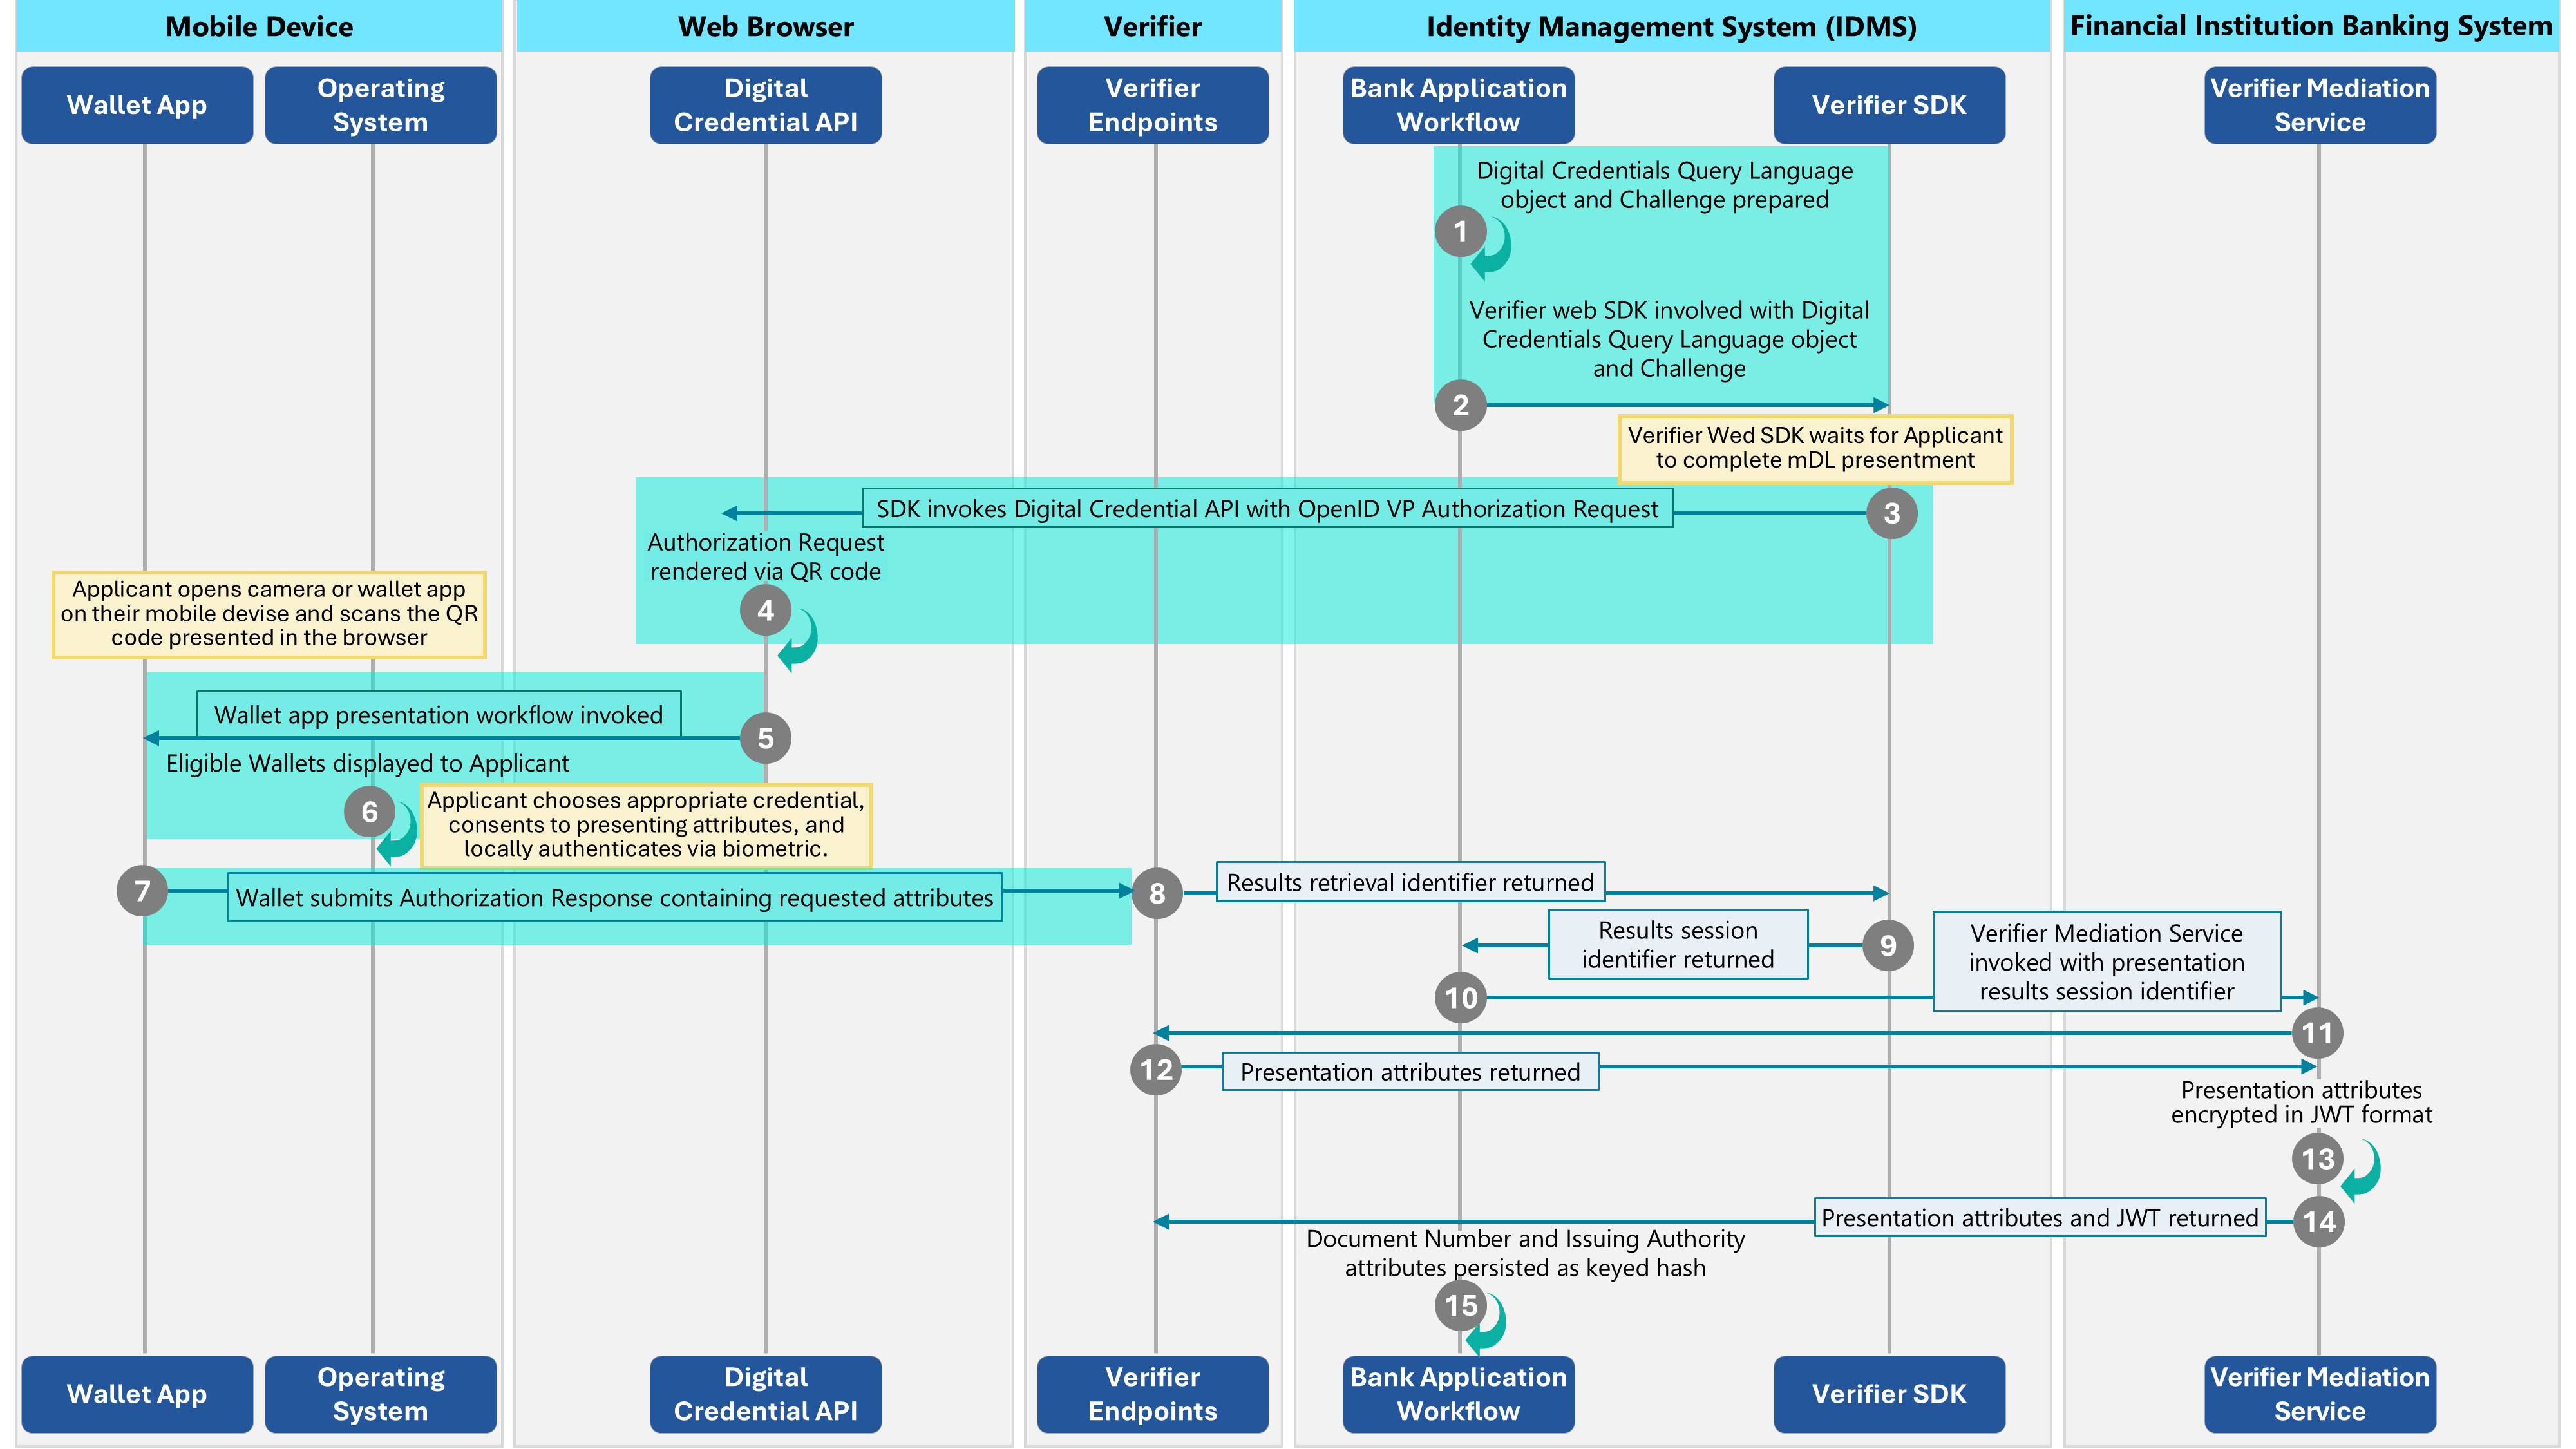
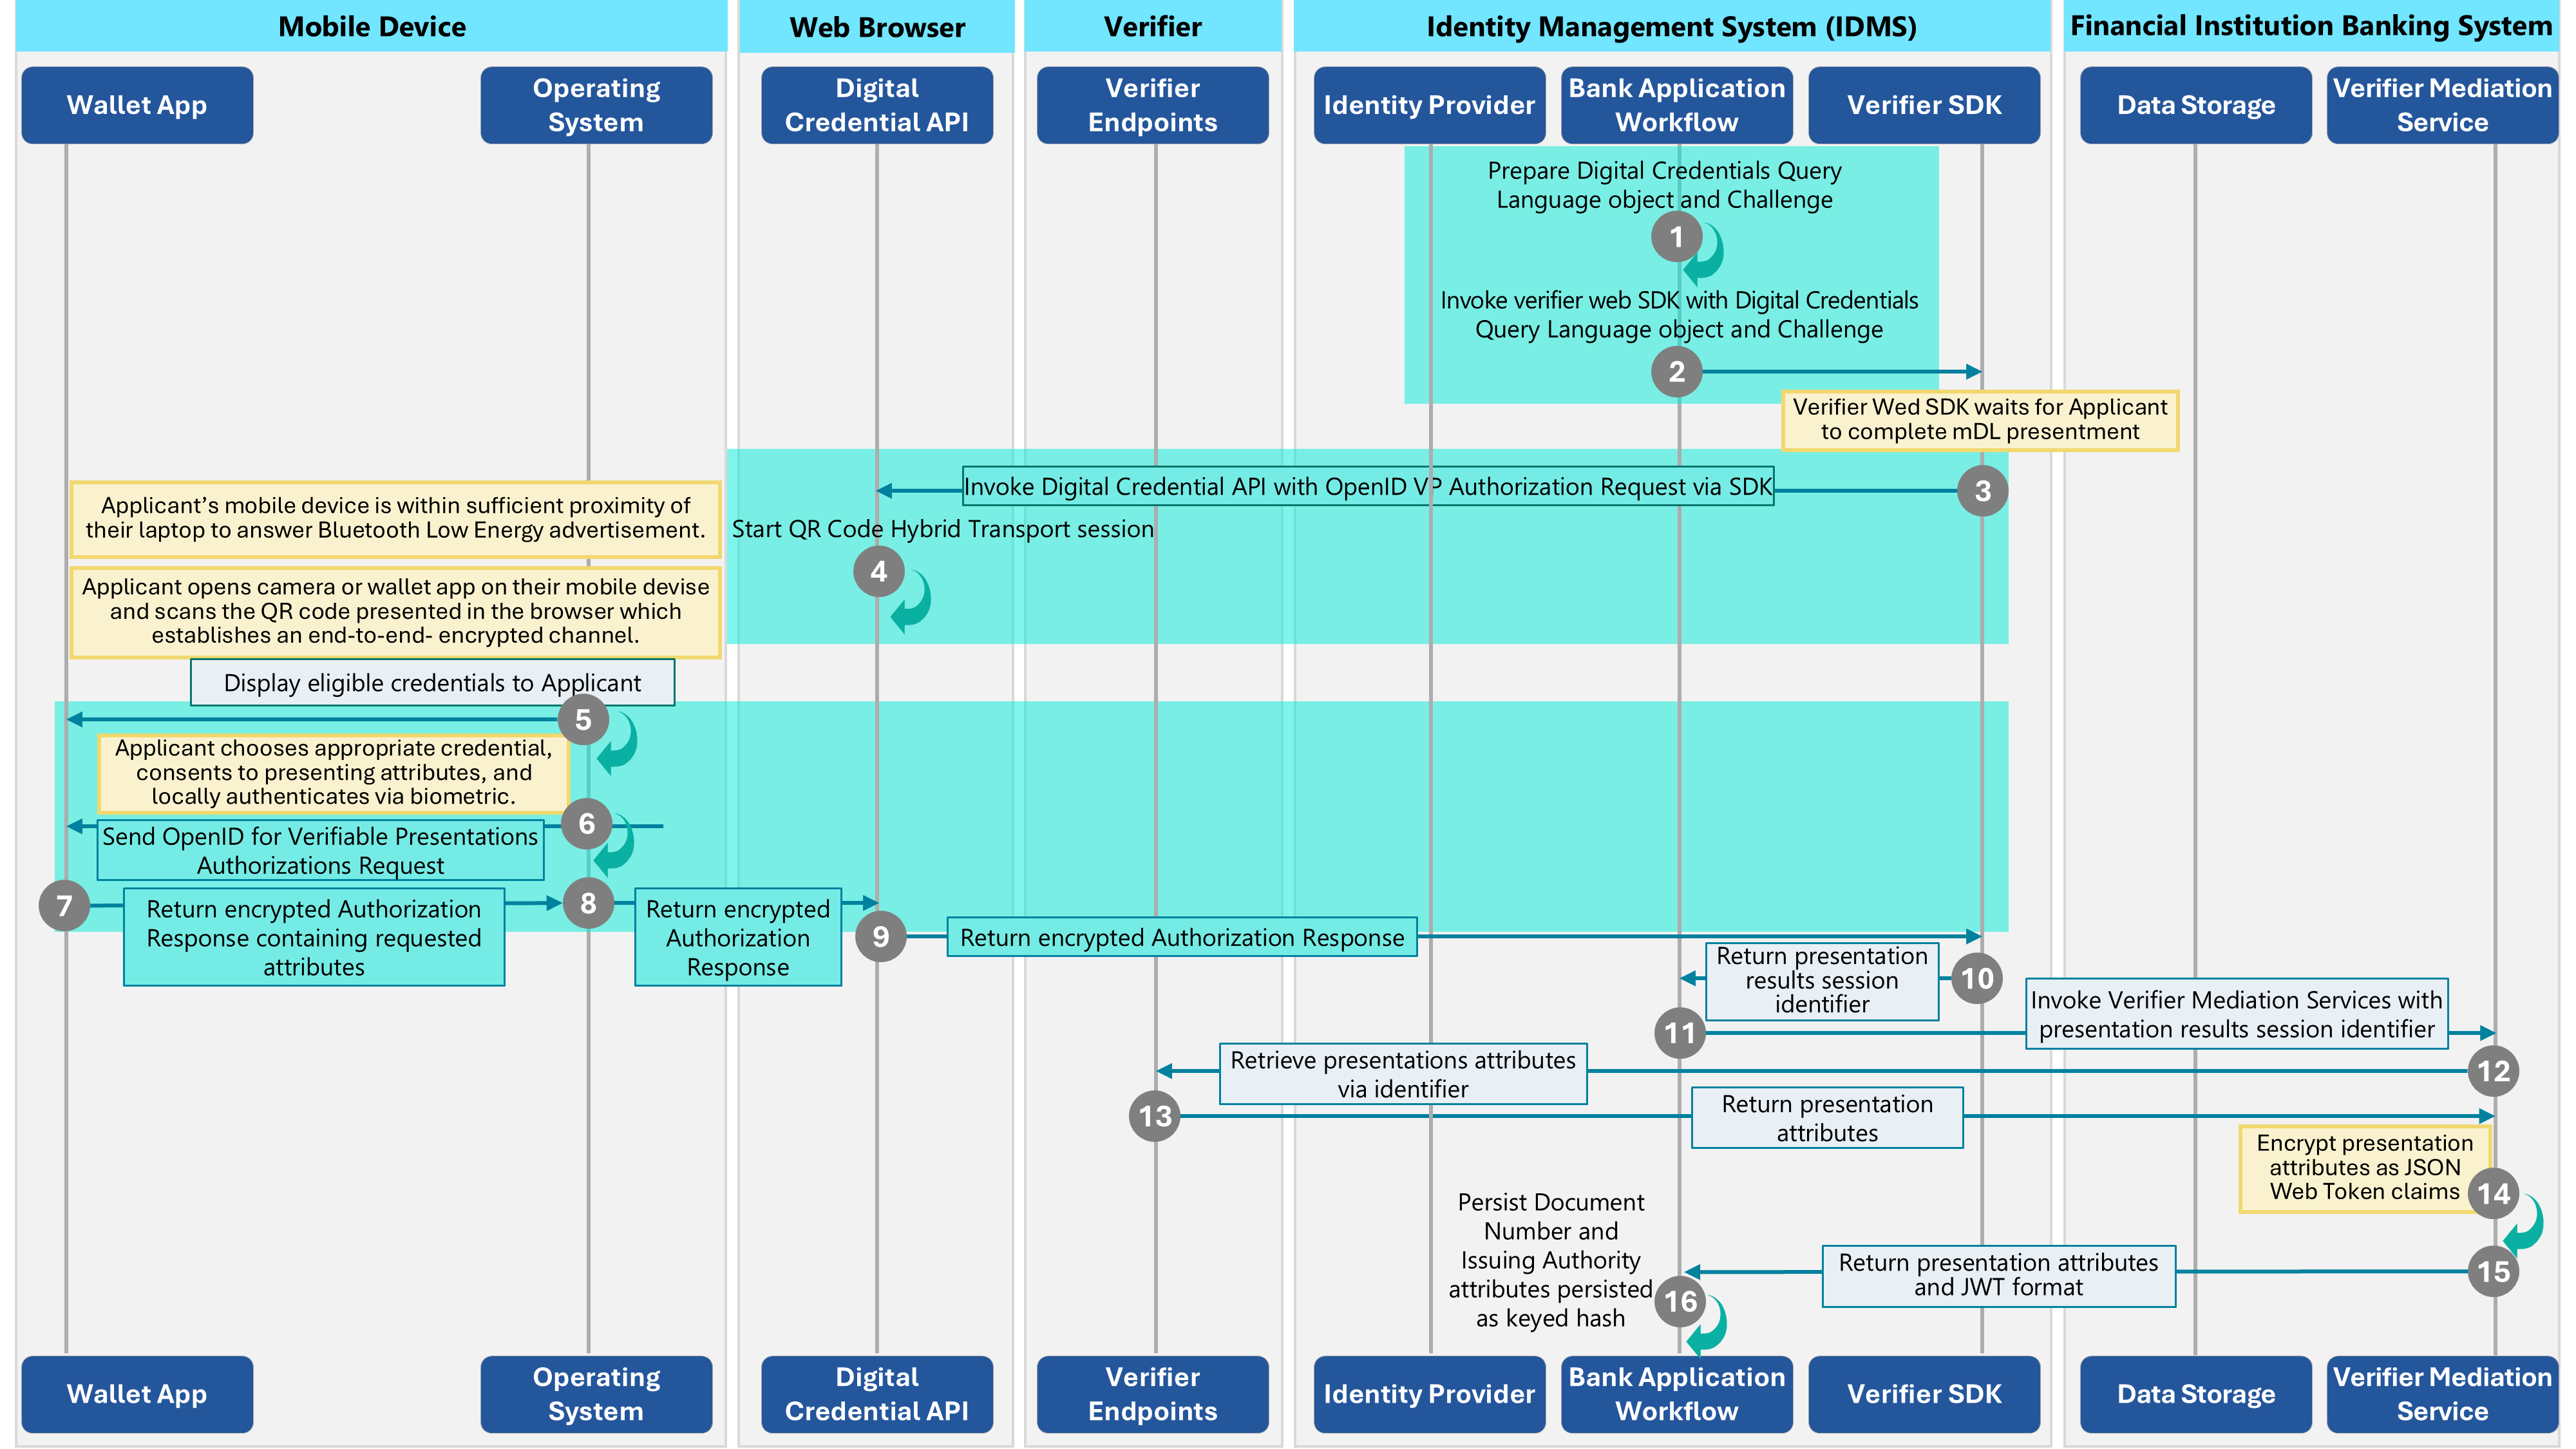
update sequence diagrams, title, howto guide and architecture

Changed region(s): [[0.0, 0.0, 1.0, 0.9956]]

diff --git a/source/_static/custom.css b/source/_static/custom.css
@@ -3,6 +3,11 @@
   /* --sd-color-card-background: #a4d9d6; */
 }
 
+.line-block {
+    margin-bottom: 0em !important;
+    
+}
+
 .sd-card.welcome {
     /* --card-bg: rgba(255, 255, 255, 0.1); */
   
@@ -14,6 +19,7 @@
     border-radius: 12px !important;
     box-shadow: 0 4px 30px rgba(0, 0, 0, 0.1);
     transition: transform 0.2s ease-in-out;
+
 }
 
 /* Ensure the header and footer are also transparent */
@@ -39,6 +45,7 @@
 
 .howtostep {
     --card-bg: rgba(164, 217, 214);
+
 }
 
 /* Hover effect for interactivity */

diff --git a/source/conf.py b/source/conf.py
@@ -12,8 +12,8 @@ sys.path.append(os.path.abspath("_themes"))
 
 # -- Project information -----------------------------------------------------
 
-project = "NCCoE Mobile Driver's License Project Supporting Resources"
-html_title = "NCCoE Mobile Driver's License Project Supporting Resources"
+project = "NCCoE Mobile Driver's License Project Resource Hub"
+html_title = "NCCoE Mobile Driver's License Project Resource Hub"
 author = 'NIST NCCoE'
 email = u'[email redacted]'
 googleanalytics_id = 'G-RJSMY46M5C'
@@ -25,6 +25,10 @@ googleanalytics_id = 'G-RJSMY46M5C'
 
 
 exclude_patterns = ['build', 'Thumbs.db', '.DS_Store', '.git']
+
+  
+
+#include_patterns = ['source/use-case-1/vol-c.rst']
 
 extensions = [
     'sphinxcontrib.rsvgconverter',
@@ -39,7 +43,8 @@ extensions = [
     "sphinx_datatables",
     "sphinxcontrib.googleanalytics",
     'sphinx_reredirects',
-    'sphinxcontrib.images'
+    'sphinxcontrib.images',
+    'sphinx_simplepdf',
 ]
 
 

diff --git a/source/use-case-1/vol-c.rst b/source/use-case-1/vol-c.rst
@@ -8,16 +8,15 @@
 
 
 
-The NCCoE mDL Configuration Guide
-=================================
+Use Case 1 Configuration Guide
+==============================
 
 .. admonition:: DISCLAIMER
 
   Certain commercial entities, equipment, products, or materials may be identified by name or company logo or other insignia in order to acknowledge their participation in this collaboration or to describe an experimental procedure or concept adequately. Such identification is not intended to imply special status or relationship with NIST or recommendation or endorsement by NIST or NCCoE; neither is it intended to imply that the entities, equipment, products, or materials are necessarily the best available for the purpose.
 
-This page describes how we implemented this representative demonstration. Security architects, product managers, and other technical staff within your organization may find this information helpful. We cover the essential products employed in this reference design—the IDMS, Verifier, and Relying Party components. We do not re-create the product manufacturers’ documentation, which is presumed to be widely available. Rather, this webpage shows how we incorporated the products together in our environment. Videos of the final integrated system can be :doc:`viewed on this page <demonstration-videos>` .
+This page is a guide that demonstrates how we configured the products in our NCCoE mDL lab . Security architects, product managers, and other technical staff within your organization may find this information helpful. We cover the essential products deployed in our :doc:`reference architecture <architecture/kyc-cip-onboarding>` — the IDMS, Verifier, and Relying Party components. We do not re-create the product manufacturers’ documentation, which is presumed to be widely available. Rather, this webpage shows how we configured and integrated the products in our lab environment. A video demonstration of this architecture in action can be viewed on :doc:`this page <demonstration-videos>`. Within each section, we describe the steps we executed to satisfy each guideline. We include configuration file snippets, code examples, and links to technology contributor documentation where applicable.
 
-Each section below represents a broad guideline in the integration process, which has been applied to the built :doc:`architecture <architecture/kyc-cip-onboarding>`. Within each section, we describe the steps we executed to satisfy each guideline. We include configuration file snippets, code examples, and links to technology contributor documentation where applicable.  
 
 .. note::
   This is not a comprehensive tutorial. There are many possible service and security configurations for these products that are out of scope for this reference design. Further, credential issuance was out of scope for this demonstration. We recommend contacting state issuing authorities directly to determine the best path for test credential issuance.  
@@ -26,26 +25,24 @@ Each section below represents a broad guideline in the integration process, whic
 1. Establish a verifier environment
 -----------------------------------
 
-A verifier service is central to enabling both traditional and modern credential-based identity proofing. The verifier trusts the issuer’s signature and public keys and validates the
-credential’s authenticity and integrity, without needing to contact the issuer directly. To support this, implementers should:
+In the mDL ecosystem, the verifier component is used to request the mDL from a wallet and to cryptographically verify the mDL presented. The verifier is configured to trust the issuer’s signature and public keys and validates the credential’s authenticity of the mDL and integrity of the information it contains, without needing to contact the issuer directly.  To support this the NCCoE implemented a dedicated centralized verifier service.
 
 .. card:: 
   :class-card: welcome howtostep
 
-  **Configure a dedicated verifier application** that defines how verification requests from the relying party (RP) are handled. This
-  ensures that requests originating from different applications or lines of business can 
-  be routed and processed according to policy.
+  **The NCCoE architecture deployed a dedicated centralized verifier application** that defines how verification requests from the relying party (RP) are handled. This ensures that requests originating from different applications or lines of business can be routed and processed according to policy. See section `6.2.1 of Special Publication 1800-42`_. 
 
 | 
      
-  Complete MATTR verifier application documentation can be viewed on the `MATTR documentation website`_. Note in 
-  our implementation, we have set the ``resultAvailableInFrontChannel`` setting to ``false`` which allows our 
-  bank function to retrieve presentation results in the back-channel. We have also enabled Digital Credential 
-  API support as indicated by the ``dcApiConfiguration``. Complete DC API configuration documentation can be viewed at `this page`_. 
+  Complete MATTR verifier application documentation can be viewed on the `MATTR documentation website`_. Note in our implementation, we have set the ``resultAvailableInFrontChannel`` setting to ``false`` which allows our bank function to retrieve presentation results in the back-channel. We have also enabled Digital Credential API support as indicated by the ``dcApiConfiguration``. Complete DC API configuration documentation can be viewed at `this page`_. See section `6.2.4 of Special Publication 1800-42`_ for why we feel it’s important to implement the DC API.
 
   .. _MATTR documentation website: https://learn.mattr.global/docs/verification/remote-web-verifiers/tutorial#create-a-verifier-application-configuration
 
   .. _this page: https://learn.mattr.global/docs/verification/remote-web-verifiers/dc-api/guide
+
+  .. _6.2.1 of Special Publication 1800-42: https://www.nccoe.nist.gov/sites/default/files/2026-03/nist-sp-1800-42a-ipd_0.pdf
+
+  .. _6.2.4 of Special Publication 1800-42: https://www.nccoe.nist.gov/sites/default/files/2026-03/nist-sp-1800-42a-ipd_0.pdf
 
   Click the dropdown below to view our full configuration.
 
@@ -116,8 +113,9 @@ credential’s authenticity and integrity, without needing to contact the issuer
 .. card::  
   :class-card: welcome howtostep
 
-  **Maintain a list of trusted credential issuers** including certificate authorities or signing keys used to validate mobile credentials (mdocs or similar). Issuer lists should be updated as test credentials evolve and should account for regional or national trust
-  frameworks.
+  **Maintain a list of trusted credential issuers** including certificate authorities or signing keys used to validate mobile credentials (mdocs or similar). Issuer lists should be updated as test credentials evolve and should account for regional or national trust frameworks. Optionally, leverage existing trust services that maintain a list of trusted issuers such as AAMVA's `Mobile Driver License Digital Trust Service`_. 
+
+  .. _Mobile Driver License Digital Trust Service: https://www.aamva.org/identity/mobile-driver-license-digital-trust-service
 
 |
 
@@ -173,7 +171,9 @@ credential’s authenticity and integrity, without needing to contact the issuer
 2. Integrate verification capabilities into an identity management system
 -------------------------------------------------------------------------
 
-Your integration pattern will be dependent on your specific IDMS and verifier, however, below we have provided a diagram of the interactions between our IDMS (Azure B2C), bank system backend, and the verifier. Interactions between the IDMS and the Verifier are mediated by a set of APIs managed by the banking system as described in our practice guide. We chose to host these functions in the cloud using `Azure Function`_ service. The remainder of this section describes how we implemented this pattern.
+Your integration pattern will be dependent on your specific IDMS and verifier, however, below we have provided a diagram of the interactions between our IDMS (Azure AD B2C), the bank system backend we built for this demonstration, and the verifier. Interactions between the IDMS and the Verifier are mediated by a set of APIs managed by the banking system as `described in section 6.3`_ of our practice guide. We chose to host these functions in the cloud using `Azure Function`_ service. The remainder of this section describes how we implemented this pattern.
+
+.. _described in section 6.3: https://www.nccoe.nist.gov/sites/default/files/2026-03/nist-sp-1800-42a-ipd_0.pdf
 
 .. note::
 
@@ -193,8 +193,9 @@ To support credential-based verification from web applications:
 .. card:: 
   :class-card: welcome howtostep
   
-  **Integrate a web verification module** that supports back-channel retrieval of presented credentials.
-  Back-channel retrieval may offer advantages in environments where server-side validation is preferred. 
+  **Integrate a web verification module** that supports back-channel retrieval of presented credentials. Back-channel retrieval may offer advantages in environments where server-side validation is preferred. Back-channel is `recommended`_ by our technology partner for production environments to protect against replay attacks rather than retrieving mDL attributes through the front-channel (browser). 
+
+  .. _recommended: https://learn.mattr.global/docs/verification/remote-web-verifiers/workflow#the-web-application-surfaces-verification-results
 
 |
 
@@ -245,8 +246,8 @@ To support credential-based verification from web applications:
   **Define credential queries** that clearly state required document types and attributes. Queries should support both primary mechanisms
   (e.g., DC API) and fallback mechanisms (e.g., protocol-based presentation profiles) to ensure cross-platform operability.
 
-|
-
+|   
+  
   Learn how to create a `credential query`_ on the MATTR documentation site. Our credential query is dependent on the applicant/customer journey stage. In the example below, we query for the attributes that satisfy Customer Information Program requirements and allow the bank to create a persistent identifier of the user from applicant to customer.
   
   .. dropdown:: Demonstration DCQL CIP Query
@@ -310,9 +311,8 @@ To support credential-based verification from web applications:
 .. card::
   :class-card: welcome howtostep
 
-  **Trigger presentation requests from within the RP workflow,** allowing users to present credentials in a same-device or cross-device
-  flow. Implementers should evaluate which approach best aligns with
-  their user experience and security goals.
+  **Trigger presentation requests from within the RP workflow,** allowing users to present credentials in a same-device or cross-device flow. Implementers should evaluate which approach best aligns with
+  the user experience and security goals.
 
 |
 
@@ -348,7 +348,7 @@ To support credential-based verification from web applications:
 
   .. _detailed flow: https://learn.mattr.global/docs/verification/remote-web-verifiers/workflow#the-mattr-vii-verifier-tenant-returns-the-verification-results
 
-  The B2C orchestration next retrieves an access token from our bank API then uses the ``sessionId`` to retrieve the presented attributes using Technical Profiles. Note that in the Account Application journey the attributes are not persisted to B2C, they are displayed to the applicant to confirm their information. 
+  The B2C orchestration next retrieves an access token from our bank API then uses the ``sessionId`` to retrieve the presented attributes using Technical Profiles. Note that in the Account Application journey the attributes are not stored in Azure AD B2C, they are displayed to the applicant to confirm their information. 
 
   .. dropdown:: MATTR Journey Configuration
     :class-container: howtodrop
@@ -440,8 +440,8 @@ authentication:
 
 |
 
-  We recommend implementers review the Azure AD B2C `orchestration documentation`_ to learn how to translate your business proceseses to web based user 
-  journeys. Our configuration for the account application registration journey is reproduced below. The journey implements a comprehensive identity verification flow to support a bank account application process that combines traditional methods (email, phone, SSN) with modern mDL verification technology, ultimately creating a verified digital identity stored in Azure AD B2C.
+  We recommend implementers review the documentation from your IDMS provider to learn how to translate your business proceseses to web based user 
+  journeys. Our configuration for the account application registration journey is reproduced below as configured in Azure AD B2C `orchestration documentation`_. The journey implements a comprehensive identity verification flow to support a bank account application process that combines traditional methods (email, phone, SSN) with modern mDL verification technology, ultimately creating a verified digital identity stored in Azure AD B2C.
 
   .. include:: examples/orchestration.rst
 
@@ -453,19 +453,14 @@ authentication:
 .. card:: 
   :class-card: welcome howtostep
   
-  **Persist collected attributes as claims** at each step to ensure continuity across the journey and to support downstream validation
+  **Store collected attributes as claims** at each step to ensure continuity across the journey and to support downstream validation
   steps.
 
 |
 
-  Persisting collected attributes allows them to be stored alongside user information in the `B2C directory`_. Attributes such as email, address,
-  and the hashed mDL document number and issuing authority must be persisted in the directory for future use. For example, the unique mDL hash
-  is used to ensure the correct mDL is presented in subsequent presentations when re-verifying the mDL for large currency transfers.
+  Storing collected attributes allows them to be stored alongside user information in the `B2C directory`_. User attributes collected during identity verification such as email, phone number, SSN, and mDL information should be stored as claims alongside the user in the identity management system. This allows the claims to support future use cases. For example, in our build, we stored a hash of the driver’s license number and the issuing entity as a claim that is later used to link an mDL to the user when presented as a step-up during high-risk transactions. 
 
-  In the previously defined registration flow, there is a step to collect the user's preferred address, preferred name, etc. These are stored
-  alongside the user in B2C for use if, for example, their present mailing address does not match the address claim in the mDL. If the user
-  fill these in, they should be used in lieu of the mDL attributes.
-
+  
   .. _B2C directory: https://learn.microsoft.com/en-us/azure/active-directory-b2c/custom-policy-reference-sso
 
   .. include:: examples/ad-write-attributes.rst
@@ -478,26 +473,12 @@ authentication:
 
 |
 
-  Where possible, financial institutions should support multiple identity verification methods, such as mDL presentation, uploading photos
-  of a physical drivers license, or manually entering the drivers license information. Note that for this demonstration, only mDL presentation
-  is supported.
+  Because not all users will have an mDL, financial institutions should support multiple identity verification methods, such as mDL presentation, uploading photos of a physical drivers license, or manually entering the drivers license information, etc. However, FIs can encourage mDLs verification as the preferred choice by listing it as the first option and by including helping prompts such as directing user to the AAMVA website to see if their state supports mDLs and by providing simple instructions for mDL presentment. Note that for this demonstration, only mDL presentation is supported.
 
 .. card:: 
   :class-card: welcome howtostep
 
-  **Generate unique identifiers using non-reversible transformations** of verified credential attributes to support deterministic account lookup in later phases (e.g., digital enrollment or reverification).
-
-|
-
-  Generating and storing a non-reversible, unique, per-user identifier is required to be able to uniquely identify a user based on 
-  specific attributes. In this implementation, B2C generates and stores a `hash`_ of the presented mDL's document number and issuing authority.
-  When combined, these two attributes are guaranteed to be unique per mDL, and therefore unique per user. On subsequent interactions,
-  such as mDL reverification and digital enrollment, this hash is used to both look up the user in B2C and to ensure the user has
-  presented the same mDL that was presented during registration. If the presented mDL does not match a known or expected one, the flow
-  does not continue.
-
-.. _hash: https://learn.microsoft.com/en-us/azure/active-directory-b2c/general-transformations
-
+  
 4. Implement digital mDL credential verification
 ----------------------------------------------------------------
 
@@ -581,7 +562,7 @@ verification:
 
 |
 
-  The `MATTR Verifier SDK`_ is a highly flexible and customizable SDK for mDL presentation that supports both same-device
+  The `MATTR Verifier SDK`_ for mDL presentation supports both same-device
   and cross-device flows, and is frequently updated to reflect new mDL changes and standards. In this implementation,
   the cross-device flow was used, and the attributes were not available in the front-channel. Additionally, the Digital Credential (DC) API
   is in MATTR technical preview, requiring additional configuration to enable it. In the example application configuration in Step 1,
@@ -616,10 +597,10 @@ verification:
 
   .. _claims bag: https://learn.microsoft.com/en-us/azure/active-directory-b2c/custom-policy-overview#orchestration-steps
 
-5. Support modern authentication (e.g., passkeys)
--------------------------------------------------
+5. Support phishinng resistant authentication (e.g., passkeys)
+--------------------------------------------------------------
 
-To support secure, passwordless authentication flows:
+FIs should offer customer at customers at least one phishing resistant authentication option. To support this:
 
 .. card:: 
   :class-card: welcome howtostep
@@ -702,13 +683,13 @@ To support secure, passwordless authentication flows:
 .. card:: 
   :class-card: welcome howtostep
   
-  **Validate the returned public credentials server-side** and persist them in the user directory for future authentication events.
+  **Validate the returned public credentials server-side** and store them in the user directory for future authentication events.
 
 |
 
   Credentials should always be validated server-side to avoid the user interfering with the validation process. By storing
-  the FIDO claims alongside the user during the digital enrollment B2C journey, the claims will persist and allow the user
-  to authenticate in the future. Below is a snippet from the B2C policy that persists the passkey's public component to the directory.
+  the FIDO claims alongside the user during the digital enrollment B2C journey, the claims will be stored in the directory entry and allow the user
+  to authenticate in the future. Below is a snippet from the B2C policy that stores the passkey's public component to the directory.
 
   .. dropdown:: B2C Write FIDO Credentials
     :class-container: howtodrop
@@ -762,21 +743,19 @@ To support secure, passwordless authentication flows:
       
     },
 
-6. Implement Re-verification workflows
---------------------------------------
+6. Implementing Re-verification workflows
+-----------------------------------------
 
-To demonstrate a user attempting to make a high-risk transaction is in possession and control of the mDL linked to their account:
+To gain additional confidence in the user identity during a high-risk transaction, FIs may:
 
 .. card:: 
   :class-card: welcome howtostep
   
-  **Use mDL-based verification as the primary authentication step** in re-verification flows, ensuring the presented credential corresponds to the same user identity established in prior phases. 
+  **Ask customers to step-up to mDL re-verification** ensuring the presented credential matches to user identity established in during identity verification.
 
 |
 
-  By storing the previously mentioned one-way document number and issuing authority hash, B2C is automatically able to verify
-  that the presented credential matches the credential that was used for initial registration by calculating the hash of the
-  credential presented for re-verification and verifying it against the hash stored alongside the user in B2C. The B2C policy snippet below shows this user journey in which two steps are executed—we validate the mDL and locate the existing customer using a ClaimsExchange technical profile then issue OIDC tokens to the banking system. 
+  As previously mentioned, our build stored a hash of driver’s license number and issuing authority as a claim in our IDMS. Because of this, B2C is automatically able to verify that the mDL presented during a high-risk transaction matches the credential that was used for initial registration by calculating the hash of the credential presented for re-verification and verifying it against the hash stored alongside the user in B2C. The B2C policy snippet below shows this user journey in which two steps are executed—we validate the mDL and locate the existing customer using a ClaimsExchange technical profile then issue OIDC tokens to the banking system.
 
   .. note:: 
 
@@ -974,12 +953,11 @@ to test specific scenarios. This section contains general guidelines for wallet-
 .. card::  
   :class-card: welcome howtostep
 
-  **Ensure wallets can render local authentication prompts** (e.g., biometrics) to complete credential presentations securely.
+  **Ensure wallets can render native, local authentication prompts** to complete credential presentations securely.
 
 |
 
-  By integrating with platform-level biometric APIs, wallets can force user biometric re-authentication prior to presenting
-  the credential.
+  We recommend selecting wallets that integrate with platform-level biometric APIs to force user biometric re-authentication prior to presenting the credential. Ideally, the credential holder is authenticated through a biometric match to either a biometric encoded in the credential or a unique template created at the time of issuance. However, this approach was not implemented in our demonstration due to technology limitations. 
 
 .. card:: 
   :class-card: welcome howtostep

diff --git a/source/use-case-1/architecture/interaction-diagrams.rst b/source/use-case-1/architecture/interaction-diagrams.rst
@@ -7,15 +7,22 @@ Introduction
 ============
 
 The following interaction diagrams visualize the flow of data between components in our `architecture </../kyc_cip_onboarding.html>`__ as the user interacts with the NCCoE Bank. 
-The flows below are cross-device flows where the user presents their mDL from the digital wallet on their phone to the NCCoE bank through a browser on a secondary device.
-These flows correspond to three of our `wireframes </../wireframes.html>`__ videos - Applying for a Financial Account using an mDL, Setting up Online Access after Application Approval, 
+The flows below depict: 
+
+1. `Cross-device <#cross-device-financial-account-application-flow>`__ flows where the user presents their mDL from the digital wallet on their phone to the NCCoE bank through a browser on a secondary device.
+2. `Same device <#same-device-app-to-app-re-verification-flow>`__ flows where all interactions occur on the mobile device.
+
+These flows correspond to three of our `demonstration </../demonstration-videos.html>`__ videos - Applying for a Financial Account using an mDL, Setting up Online Access after Application Approval, 
 and Identity Re-verification. The diagrams generally depict user journey “happy paths”, that is, free from error conditions or edge cases. System architects and those in similar 
 roles may find these diagrams useful as a reference when implementing their own solutions for an individual use case.
 
-There are interactions which take place prior to the user journeys which not demonstrated in these flows where:
 
-- mDL issuance is out of scope for this project and thus it is assumed the bank applicant has been issued a mobile driver’s license by their state issuer to a digital wallet that supports online presentation. 
-- The Verifier system component has been configured to align with the policies of the banking system to include interaction with a Trust Service to download trusted issuers and configuration of approved wallets.
+.. note::
+
+    There are interactions which take place prior to the user journeys which not demonstrated in these flows where:
+
+    - mDL issuance is out of scope for this project and thus it is assumed the bank applicant has been issued a mobile driver’s license by their state issuer to a digital wallet that supports online presentation. 
+    - The Verifier system component has been configured to align with the policies of the banking system to include interaction with a Trust Service to download trusted issuers and configuration of approved wallets.
 
 Viewing the Diagrams
 ====================
@@ -107,7 +114,26 @@ of the mDL. For a visualization of this process, please view our `wireframe vide
 This re-verification flow that occurs at Flow 3, Step 10 and is the same as Flow 1 - `Part 2 <#part-2-mdl-verification-using-the-dci-api>`__. 
 
 
-Re-verification for Step-Up Flow
+Cross-device Re-verification Flow
 ---------------------------------
 
 .. thumbnail:: ../../media/Re-verification1.PNG
+
+
+
+Same Device App to App Re-verification Flow
+-------------------------------------------
+
+The flows below depict a same device app to app flow in which a native banking application invokes platform Android credential management APIs. Consult `Android developer documentation <https://developer.android.com/identity/digital-credentials/credential-verifier>`__ for additional context and detailed flow depictions. 
+
+
+Part 1 - User Initiates Bank Transaction and Presents Credential
+^^^^^^^^^^^^^^^^^^^^^^^^^^^^^^^^^^^^^^^^^^^^^^^^^^^^^^^^^^^^^^^^
+
+.. thumbnail:: ../../media/SameDevice1.png
+
+
+Part 2 - User Completes Transaction after Verification
+^^^^^^^^^^^^^^^^^^^^^^^^^^^^^^^^^^^^^^^^^^^^^^^^^^^^^^
+
+.. thumbnail:: ../../media/SameDevice2.png

diff --git a/source/blogs.rst b/source/blogs.rst
@@ -9,7 +9,7 @@ Ecosystem. Follow the links below to view the published entries.
 
 #. `Understanding mDL credential formats <https://www.nist.gov/blogs/cybersecurity-insights/digital-identities-getting-know-verifiable-digital-credential-0>`__ 
 
-#. mDL Issuance (Future Blog Entry)
+#. `From DMV to Wallet: Understanding Verifiable Digital Credential Issuance <https://www.nist.gov/blogs/cybersecurity-insights/dmv-wallet-understanding-verifiable-digital-credential-issuance>`__
 
 #. mDL Presentment (Future Blog Entry)
 

diff --git a/source/use-case-1/index.rst b/source/use-case-1/index.rst
@@ -46,4 +46,4 @@ In the future we will update this section of the website with videos of the buil
    Privacy Risk Assessment Methodology <pram.rst>
    usability-results.rst
    demonstration-videos.rst
-   vol-c.rst
+   Use Case 1 Configuration Guide <vol-c.rst>